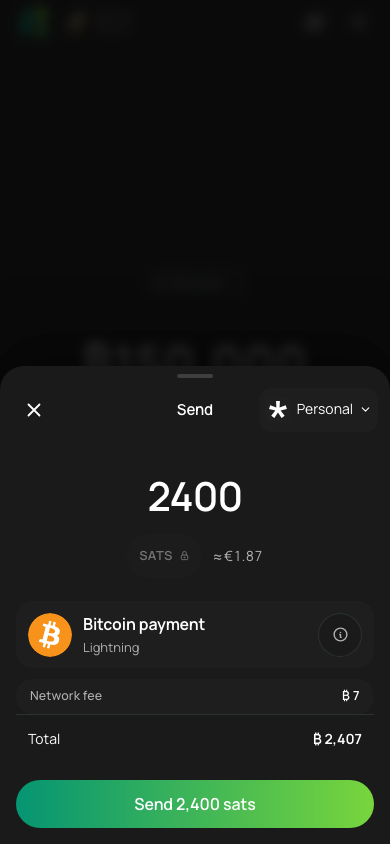
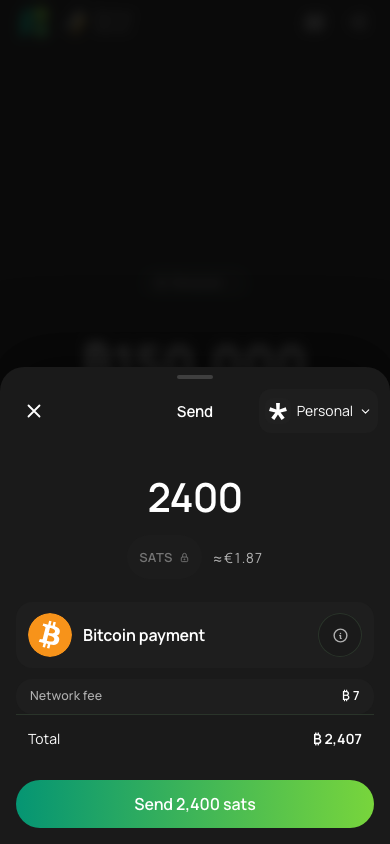
style(payments): move protocol cues out of recipient card

diff --git a/src/components/PaymentConfirmSheet.vue b/src/components/PaymentConfirmSheet.vue
@@ -213,10 +213,6 @@
             <div v-else class="recipient-meta">
               <div class="recipient-name-row">
                 <div class="recipient-name">{{ recipientName }}</div>
-                <span v-if="verb === 'send' && recipientUsesIdentity" class="recipient-method-cue" :class="{ 'recipient-method-cue--brand': !!recipientMethodMark, 'recipient-method-cue--arkade': recipientMethodMark === 'arkade' }" role="img" :aria-label="paymentDetails.typeLabel || $t('Payment details')">
-                  <WalletBrandMark v-if="recipientMethodMark" :type="recipientMethodMark" :size="12" />
-                  <Icon v-else :icon="recipientTypeIcon" width="13" height="13" />
-                </span>
                 <!-- Countdown chip — present for time-bounded merchant QRs.
                      Flips to an urgent red state once the remaining time
                      drops below the supplied threshold (defaults to 20s),
@@ -675,21 +671,6 @@ export default {
       const recipient = this.payment?.recipient
       return !!(recipient?.matchedContact || recipient?.silhouette || recipient?.service || this.showRecipientLogo)
     },
-    recipientMethod() {
-      const network = String(this.payment?.details?.networkLabel || '').toLowerCase()
-      if (network.includes('spark')) return 'spark'
-      if (network.includes('ark')) return 'arkade'
-      if (network.includes('lightning')) return 'lightning'
-      if (network.includes('bitcoin')) return 'bitcoin'
-      return this.payment?.recipient?.addressType || 'bitcoin'
-    },
-    recipientMethodMark() {
-      return ['spark', 'arkade'].includes(this.recipientMethod) ? this.recipientMethod : null
-    },
-    recipientTypeIcon() {
-      return ['lightning', 'invoice', 'lnurl'].includes(this.recipientMethod)
-        ? 'tabler:bolt' : 'tabler:currency-bitcoin'
-    },
 
     // ───── Recipient ─────
     recipientName() {
@@ -742,10 +723,8 @@ export default {
         if (this.payment?.recipient?.addressType === 'lightning') {
           return this.payment?.recipient?.addressLabel || this.recipientAddress
         }
-        // Encoded destinations belong in Payment details, even shortened.
-        // A quiet method label keeps the route recognizable on the review.
-        const label = { spark: 'Spark', arkade: 'Arkade', bitcoin: 'On-chain', lightning: 'Lightning', invoice: 'Lightning', lnurl: 'Lightning' }[this.recipientMethod]
-        return label ? this.$t(label) : ''
+        // Protocol names and encoded destinations belong in Payment details.
+        return ''
       }
       return this.payment?.recipient?.addressLabel || this.recipientAddress
     },
@@ -1675,9 +1654,6 @@ export default {
 .sheet-card--send .note-input { font-size: 1rem; min-width: 0; }
 .sheet-card--send .recipient-avatar--type { background: transparent !important; box-shadow: none; text-shadow: none; }
 .recipient-bitcoin-logo { width: 44px; height: 44px; display: block; }
-.recipient-method-cue { display: grid; place-items: center; flex: 0 0 20px; width: 20px; height: 20px; border-radius: 6px; color: var(--text-secondary); }
-.recipient-method-cue--brand { background: #202020; }
-.recipient-method-cue--arkade { background: var(--arkade-tile, #202020); }
 .payment-details-view { padding-top: 12px; }
 .payment-details-list { margin: 0; }
 .payment-details-list > div { padding: 15px 0; border-bottom: 1px solid var(--border-card); }

diff --git a/src/components/__tests__/payWithField.spec.js b/src/components/__tests__/payWithField.spec.js
@@ -716,26 +716,26 @@ test('root dismiss uses Cancel and x; child return uses Back and chevron', async
 })
 
 test('generic payments use the original Bitcoin logo and keep encoded requests exclusively in details', async () => {
-  for (const [network, label] of [['Spark', 'Spark'], ['Arkade', 'Arkade'], ['Lightning', 'Lightning'], ['Bitcoin', 'On-chain']]) {
+  for (const network of ['Spark', 'Arkade', 'Lightning', 'Bitcoin']) {
     const address = 'lnbc24000n1' + 'rawsignedrequest'.repeat(8)
     const payment = { recipient: { name: 'Bitcoin payment', addressType: 'invoice', address }, amount: { mode: 'fixed', fixedSats: 1000 }, details: { networkLabel: network, address } }
     const html = await render(ConfirmSheet, sheetProps({ payment, payingWallets: [] }), { directives: sheetDirectives })
     assert.match(html, /class="recipient-name">Bitcoin payment/)
     assert.match(html, /src="\/icons\/bitcoin.svg" alt(?:="")? class="recipient-bitcoin-logo"/)
-    assert.match(html, new RegExp(`class="recipient-addr">${label}<`))
+    assert.doesNotMatch(html, /class="recipient-addr"/, 'protocol wording stays in Payment details')
     assert.ok(!html.includes(address.slice(0, 17)), 'even a shortened invoice stays out of the main review')
     assert.doesNotMatch(html, /class="recipient-method-cue"/, 'anonymous payment uses the existing icon area')
   }
 })
 
-test('a known contact keeps its avatar and name with a small method cue', async () => {
+test('a known contact keeps its avatar and name without a protocol badge', async () => {
   const payment = {
-    recipient: { name: 'Alice', addressType: 'spark', address: 'spark-request', matchedContact: true, logoUrl: 'https://example.com/alice.jpg' },
-    amount: { mode: 'fixed', fixedSats: 1000 }, details: { networkLabel: 'Spark', typeLabel: 'Spark payment' },
+    recipient: { name: 'Alice', addressType: 'lightning', address: 'alice@example.com', matchedContact: true, logoUrl: 'https://example.com/alice.jpg' },
+    amount: { mode: 'fixed', fixedSats: 1000 }, details: { networkLabel: 'Lightning', typeLabel: 'Lightning address' },
   }
   const html = await render(ConfirmSheet, sheetProps({ payment, payingWallets: [] }), { directives: sheetDirectives })
   assert.match(html, /src="https:\/\/example.com\/alice.jpg" alt="Alice"/)
   assert.match(html, /class="recipient-name">Alice/)
-  assert.match(html, /recipient-method-cue[^>]*role="img"[^>]*aria-label="Spark payment"/)
-  assert.match(html, /data-mark="spark"/)
+  assert.match(html, /class="recipient-addr">alice@example.com/)
+  assert.doesNotMatch(html, /recipient-method-cue|data-mark="spark"|data-icon="tabler:bolt"/)
 })

diff --git a/docs/PAYMENT_PREPARATION.md b/docs/PAYMENT_PREPARATION.md
@@ -8,7 +8,7 @@ The design follows Apple’s guidance for [typography](https://developer.apple.c
 
 ## Shared payment review
 
-Scanned, pasted and contact payments use one review sheet. The header contains an icon for closing the sheet (a chevron when returning from a child view), Send and a wallet selector sized to its contents. The amount leads, with its denomination/lock and fiat conversion centered together immediately below it, followed by one recipient card, the available fee summary and the existing Send or slide-to-send action. Anonymous recipients remain **Bitcoin payment**, using the original orange Bitcoin logo; saved contacts and known businesses keep their names and avatars. The default screen shows a readable Lightning address or a quiet payment-method label, never an encoded request, even shortened. Technical destinations stay in Payment details; the amount and recipient carry the visual emphasis.
+Scanned, pasted and contact payments use one review sheet. The header contains an icon for closing the sheet (a chevron when returning from a child view), Send and a wallet selector sized to its contents. The amount leads, with its denomination/lock and fiat conversion centered together immediately below it, followed by one recipient card, the available fee summary and the existing Send or slide-to-send action. Anonymous recipients remain **Bitcoin payment**, using the original orange Bitcoin logo; saved contacts and known businesses keep their names and avatars. The default screen shows the recipient and, when useful, a readable address. Protocol labels and badges, including Lightning bolts, stay out of the recipient card. Payment types, networks and encoded destinations are available through the info button in Payment details; the amount and recipient carry the visual emphasis.
 
 Wallet selection and **Payment details** are child views inside that same sheet. The wallet list includes names, types, balances, the selected state and reasons a wallet cannot pay. Details contains the full payment request/address, Copy, the payment type/network, message and useful metadata. Returning keeps the amount, denomination, comment and selected wallet. The exact signed Spark invoice is kept separately from its durable recipient address.
 
